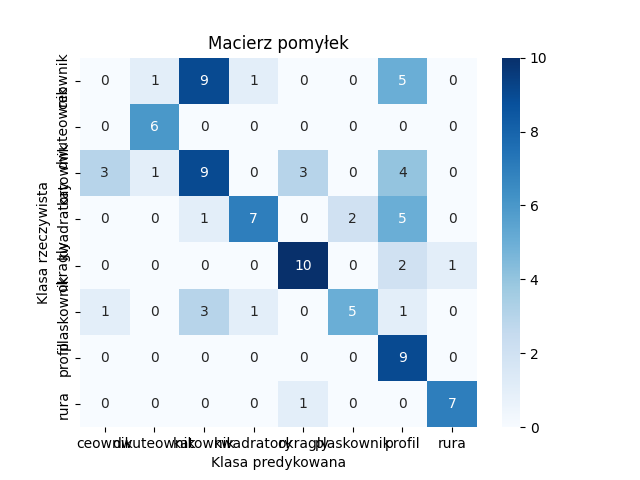
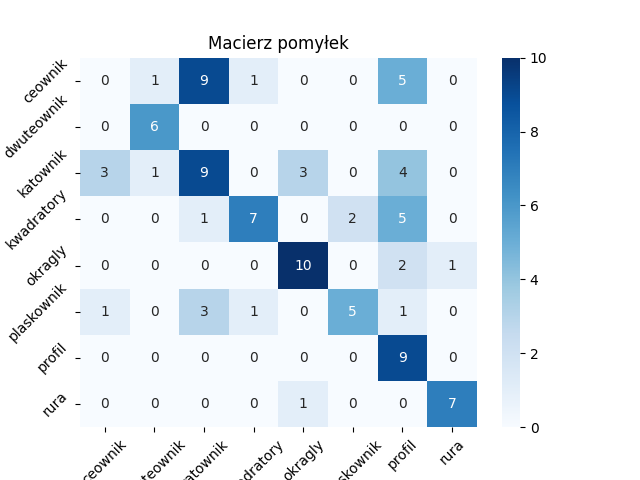
Test with real images

diff --git a/Etap3/przetestuj_model.py b/Etap3/przetestuj_model.py
@@ -29,7 +29,7 @@ def load_data_to_dataframe(dataset_dir: str):
 
 model = keras.models.load_model('model')
 
-df = load_data_to_dataframe('wiele')
+df = load_data_to_dataframe('pojedyncze')
 test_idg = ImageDataGenerator(preprocessing_function=xception.preprocess_input)
 test_data = test_idg.flow_from_dataframe(
     df,
@@ -41,6 +41,6 @@ test_data = test_idg.flow_from_dataframe(
 )
 
 predicts = model.predict(test_data, verbose=True)
-prepare_result_directory("results_wiele")
-save_test_results(test_data, predicts, "results_wiele", 0)
-save_misclassified(test_data, predicts, "results_wiele", 0)
+prepare_result_directory("results_pojedyncze")
+save_test_results(test_data, predicts, "results_pojedyncze", 0)
+save_misclassified(test_data, predicts, "results_pojedyncze", 0)

diff --git a/Etap3/save_util.py b/Etap3/save_util.py
@@ -56,8 +56,8 @@ def save_test_results(test_gen, predicts, result_directory, current_test):
     ax.set_xlabel('Klasa predykowana')
     ax.set_ylabel('Klasa rzeczywista')
     ax.set_title('Macierz pomyłek')
-    ax.xaxis.set_ticklabels(label_names)
-    ax.yaxis.set_ticklabels(label_names)
+    ax.set_xticklabels(label_names, rotation=45)
+    ax.set_yticklabels(label_names, rotation=45)
     plt.savefig(f'{result_directory}/{current_test}_macierz_pomylek.png')
 
     test_acc = accuracy_score(y_true, y_pred)
